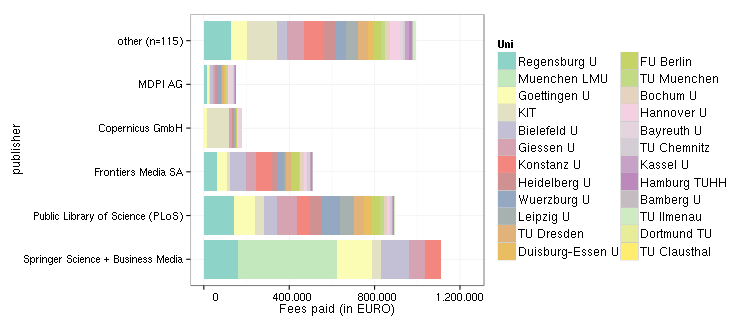
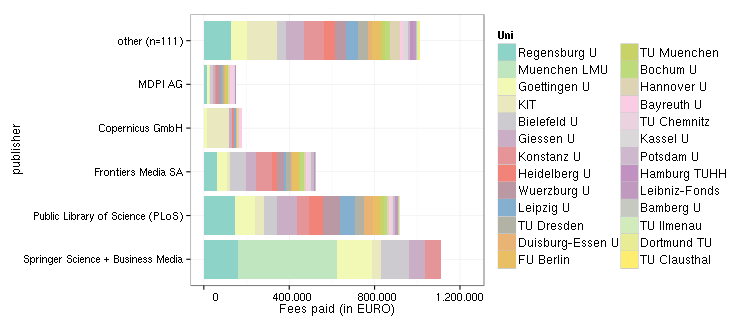
about updated

diff --git a/about.md b/about.md
@@ -38,6 +38,7 @@ So far, the following German universities have agreed to share information on pa
 - [University of Göttingen](http://www.sub.uni-goettingen.de/en/electronic-publishing/open-access/open-access-publication-funding/)
 - [University of Kassel](http://www.uni-kassel.de/go/publikationsfonds)
 - [University of Konstanz](http://www.ub.uni-konstanz.de/openaccess/open-access-publikationsfonds-der-universitaet-konstanz/)
+- [University of Potsdam](https://publishup.uni-potsdam.de/home/index/help/content/publication_fund)
 - [University of Regensburg](http://oa.uni-regensburg.de/)
 - [University of Würzburg](http://www.bibliothek.uni-wuerzburg.de/en/service0/electronic_publishing/open_access/open_access_journals/)
 
@@ -53,6 +54,7 @@ The data content covers APCs as paid for by our central budget for the Max Planc
 
 - [Forschungszentrum Jülich](http://www.fz-juelich.de/portal/DE/Home/home_node.html)
 - [Library Wissenschaftspark Albert Einstein](http://bib.telegrafenberg.de/en/library-wissenschaftspark-albert-einstein/)
+- [Leibniz Association's Open Access Publishing Fund](http://www.leibniz-gemeinschaft.de/en/infrastructures/open-access/open-access-publishing-fund/)
 - [INM - Leibniz Institute for New Materials](http://bibliothek.inm-gmbh.de/publizieren/publikationsgebuhren/)
 - [Max Delbrück Center for Molecular Medicine (MDC)](https://www.mdc-berlin.de/1161876/de/about_the_mdc/structure/administration/library)
 
@@ -61,13 +63,13 @@ The data content covers APCs as paid for by our central budget for the Max Planc
 
 Information on both open access journal articles and open access publication of articles in toll-access journals ("hybrid") are provided.
 
-In total,  8 536 044 € for  6 638 articles were paid by the participating unviversities. Average  fee is 1 285.9 € and the median 1 214 €.
+In total,  8 598 168 € for  6 682 articles were paid by the participating unviversities. Average  fee is 1 286.8 € and the median 1 216 €.
 
 ### Open Access Journals
 
 
 
-At the moment, the dataset releases information on 6 585 articles in open access journals which charge publication fees. Total expenditure amounts to  8 448 203 €. Average  fee is 1 282.9 € and the median 1 212 €.
+At the moment, the dataset releases information on 6 629 articles in open access journals which charge publication fees. Total expenditure amounts to  8 510 327 €. Average  fee is 1 283.8 € and the median 1 214 €.
 
 View dataset on [GitHub](https://github.com/OpenAPC/openapc-de/blob/master/data/apc_de.csv).
 
@@ -92,10 +94,12 @@ View dataset on [GitHub](https://github.com/OpenAPC/openapc-de/blob/master/data/
 |Kassel U                                    |       35|             35550|          1016|   1142|
 |KIT                                         |      293|            345311|          1179|   1176|
 |Konstanz U                                  |      223|            304182|          1364|   1342|
+|Leibniz-Fonds                               |       20|             30182|          1509|   1476|
 |Leipzig U                                   |      168|            236376|          1407|   1481|
 |MDC                                         |       23|             41464|          1803|   1212|
 |MPG                                         |     2816|           3597571|          1278|   1161|
 |Muenchen LMU                                |      365|            463491|          1270|   1299|
+|Potsdam U                                   |       24|             31942|          1331|   1363|
 |Regensburg U                                |      401|            504642|          1258|   1207|
 |TU Chemnitz                                 |       36|             37826|          1051|   1142|
 |TU Clausthal                                |        4|              3771|           943|    969|
@@ -193,7 +197,7 @@ For data enrichment, sample visualisations and explorations we build on the work
 
 ## Contributors
 
-Jochen Apel, Hans-Georg Becker, Roland Bertelmann, Daniel Beucke, Peter Blume, Ute Blumtritt, Christoph Broschinski, Dorothea Busjahn, Gernot Deinzer, Andrea Dorner,  Clemens Engelhardt, Kristina Hanig, Dominik Hell, Ulrich Herb, Inken Feldsien-Sudhaus, Fabian Franke, Claudia Frick, Agnes Geißelmann, Kai Karin Geschuhn, Gerrit Kuehle, Doris Jaeger, Stephanie Kroiss, Kathrin Lucht-Roussel, Frank Lützenkirchen, Anja Oberländer, Vitali Peil, Dirk Pieper, Tobias Pohlmann, Michael Schlachter,  Florian Ruckelshausen, Birgit Schlegel, Adriana Sikora, Marco Tullney, Astrid Vieler, Sabine Witt, Najko Jahn
+Jochen Apel, Hans-Georg Becker, Roland Bertelmann, Daniel Beucke, Peter Blume, Ute Blumtritt, Christoph Broschinski, Dorothea Busjahn, Gernot Deinzer, Andrea Dorner,  Clemens Engelhardt, Kristina Hanig, Dominik Hell, Ulrich Herb, Inken Feldsien-Sudhaus, Fabian Franke, Claudia Frick, Agnes Geißelmann, Kai Karin Geschuhn, Gerrit Kuehle, Doris Jaeger, Andreas Kennecke, Stephanie Kroiss, Kathrin Lucht-Roussel, Frank Lützenkirchen, Anja Oberländer, Vitali Peil, Dirk Pieper, Tobias Pohlmann, Michael Schlachter,  Florian Ruckelshausen, Birgit Schlegel, Adriana Sikora, Marco Tullney, Astrid Vieler, Marco Winkler, Sabine Witt, Najko Jahn
 
 ## Contact
 
